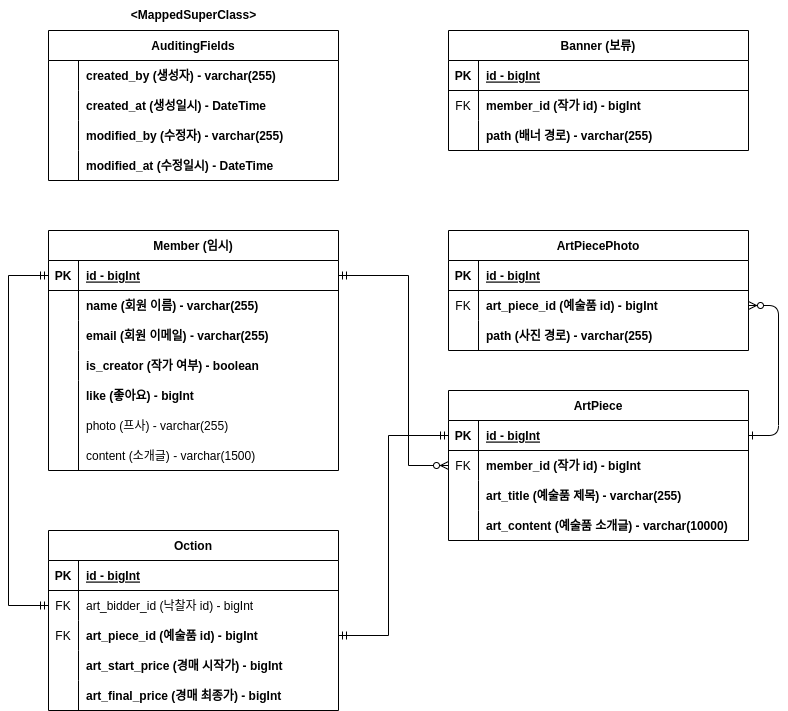
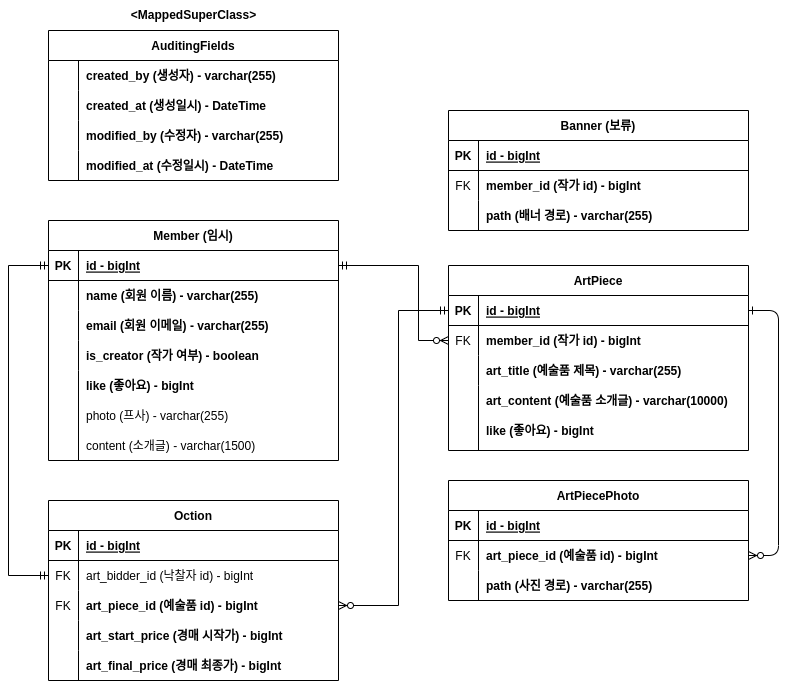
#1 - 시큐리티 초기 설정, ERD 수정
개발 편의성을 위해 시큐리티 기본 보안 작동을 중단시켰고, ERD에서 ArtPiece와 Auction간 관계를 1:1에서 1:N으로 변경 (유찰 가능성이 있기 때문에 N)

diff --git a/src/main/java/com/artfolio/artfolio/config/SecurityConfig.java b/src/main/java/com/artfolio/artfolio/config/SecurityConfig.java
@@ -1,0 +1,20 @@
+package com.artfolio.artfolio.config;
+
+import org.springframework.context.annotation.Bean;
+import org.springframework.context.annotation.Configuration;
+import org.springframework.security.config.annotation.web.builders.HttpSecurity;
+import org.springframework.security.config.annotation.web.configuration.EnableWebSecurity;
+import org.springframework.security.web.SecurityFilterChain;
+
+@EnableWebSecurity
+@Configuration
+public class SecurityConfig {
+    @Bean
+    public SecurityFilterChain securityFilterChain(HttpSecurity http) throws Exception {
+        return http
+                .httpBasic().disable()
+                .csrf().disable()
+                .authorizeHttpRequests(auth -> auth.anyRequest().permitAll())
+                .build();
+    }
+}
